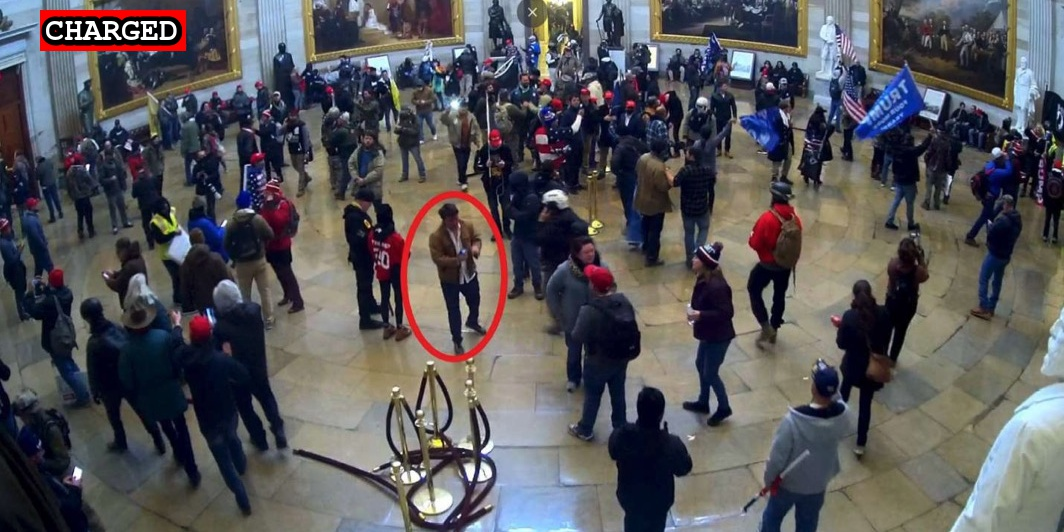
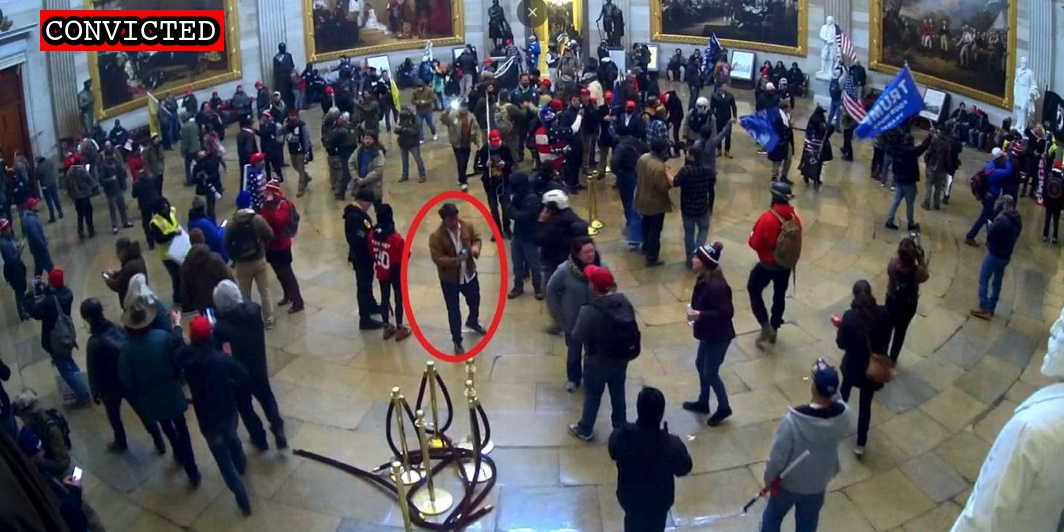
Latest convictions

Changed region(s): [[0.031, 0.0, 0.2171, 0.1203]]

diff --git a/docs/_suspects/terry-lindsey.md b/docs/_suspects/terry-lindsey.md
@@ -4,13 +4,13 @@ lastName: Lindsey
 hashtag: TerryLindsey
 aka:
 residence: Ohio
-status: Convicted
+status: Sentenced
 date: 2021-02-16
 charged: 2021-02-16
 indicted:
 convicted: 2022-04-05
 acquitted:
-sentenced:
+sentenced: 2022-07-15
 dismissed:
 deceased:
 plea_hearing: 2022-04-05
@@ -36,20 +36,24 @@ published: true
 caseNumber: 1:21-cr-162
 videos:
 charges:
-- code: 18 USC § 1752(a)(1)
-  title: Entering a restricted building or grounds
-  url: https://www.law.cornell.edu/uscode/text/18/1752
-  felony: false
-- code: 40 USC § 5104(e)(2)(D)
-  title: Disorderly Conduct in a Capitol Building
-  url: https://www.law.cornell.edu/uscode/text/40/5104
-  felony: false
-- code: 40 USC § 5104(e)(2)(G)
-  title: Parading, demonstrating or picketing in a Capitol building
-  url: https://www.law.cornell.edu/uscode/text/40/5104
-  felony: false
+  - code: 18 USC § 1752(a)(1)
+    title: Entering a restricted building or grounds
+    url: https://www.law.cornell.edu/uscode/text/18/1752
+    felony: false
+  - code: 40 USC § 5104(e)(2)(D)
+    title: Disorderly Conduct in a Capitol Building
+    url: https://www.law.cornell.edu/uscode/text/40/5104
+    felony: false
+  - code: 40 USC § 5104(e)(2)(G)
+    title: Parading, demonstrating or picketing in a Capitol building
+    url: https://www.law.cornell.edu/uscode/text/40/5104
+    felony: false
 sentence:
+  - 5 months incarceration
+  - 36 months probation
+  - $500 restitution
 ---
+
 - [News Report](https://www.newsbreak.com/colorado/colorado-springs/news/2166074234842/ohios-terry-lynn-lindsey-yet-to-be-arrested-after-entering-us-capitol-with-colorado-springs-glenn-wes-lee-croy)
 - [Statement of Facts](https://www.justice.gov/usao-dc/case-multi-defendant/file/1371331/download)
 - [DOJ Press Release](https://www.justice.gov/usao-dc/case-multi-defendant/file/1377836/download)

diff --git a/docs/_suspects/adam-weibling.md b/docs/_suspects/adam-weibling.md
@@ -4,15 +4,17 @@ lastName: Weibling
 hashtag: AdamWeibling
 aka:
 residence: Texas
-status: Charged
+status: Convicted
 date: 2021-05-19
 charged: 2021-05-19
 indicted:
-convicted:
+convicted: 2022-07-14
+acquitted:
 sentenced:
 dismissed:
 deceased:
-plea_hearing:
+plea_hearing: 2022-07-14
+trial_date:
 sentencing:
 age: 38
 occupation:
@@ -31,12 +33,18 @@ description: Click for latest case details. Suspects innocent until proven guilt
 author: seditiontrack
 layout: suspect
 published: true
-caseNumber:
+caseNumber: 1:21-cr-644
 videos:
 charges:
+- code: 40 USC § 5104(e)(2)(G)
+  title: Parading, demonstrating or picketing in a Capitol building
+  url: https://www.law.cornell.edu/uscode/text/40/5104
+  felony: false
 sentence:
 ---
 - [News Report](https://www.houstonpublicmedia.org/articles/news/criminal-justice/2021/05/26/399105/seventh-houston-area-resident-arrested-in-connection-to-capitol-insurrection/)
 - [Statement of Facts](https://www.justice.gov/usao-dc/case-multi-defendant/file/1398256/download)
 - [Complaint](https://www.justice.gov/usao-dc/case-multi-defendant/file/1398261/download)
-- [Information](https://extremism.gwu.edu/sites/g/files/zaxdzs2191/f/Adam%20Mark%20Weibling%20Information.pdf)
+- [Information](https://www.justice.gov/usao-dc/case-multi-defendant/file/1519626/download)
+- [Plea Agreement](https://www.justice.gov/usao-dc/case-multi-defendant/file/1519631/download)
+- [Statement of Offense](https://www.justice.gov/usao-dc/case-multi-defendant/file/1519636/download)

diff --git a/docs/_suspects/michael-eckerman.md b/docs/_suspects/michael-eckerman.md
@@ -13,6 +13,7 @@ sentenced:
 dismissed:
 deceased:
 plea_hearing:
+trial_date: 2022-11-28
 sentencing:
 age: 37
 occupation:
